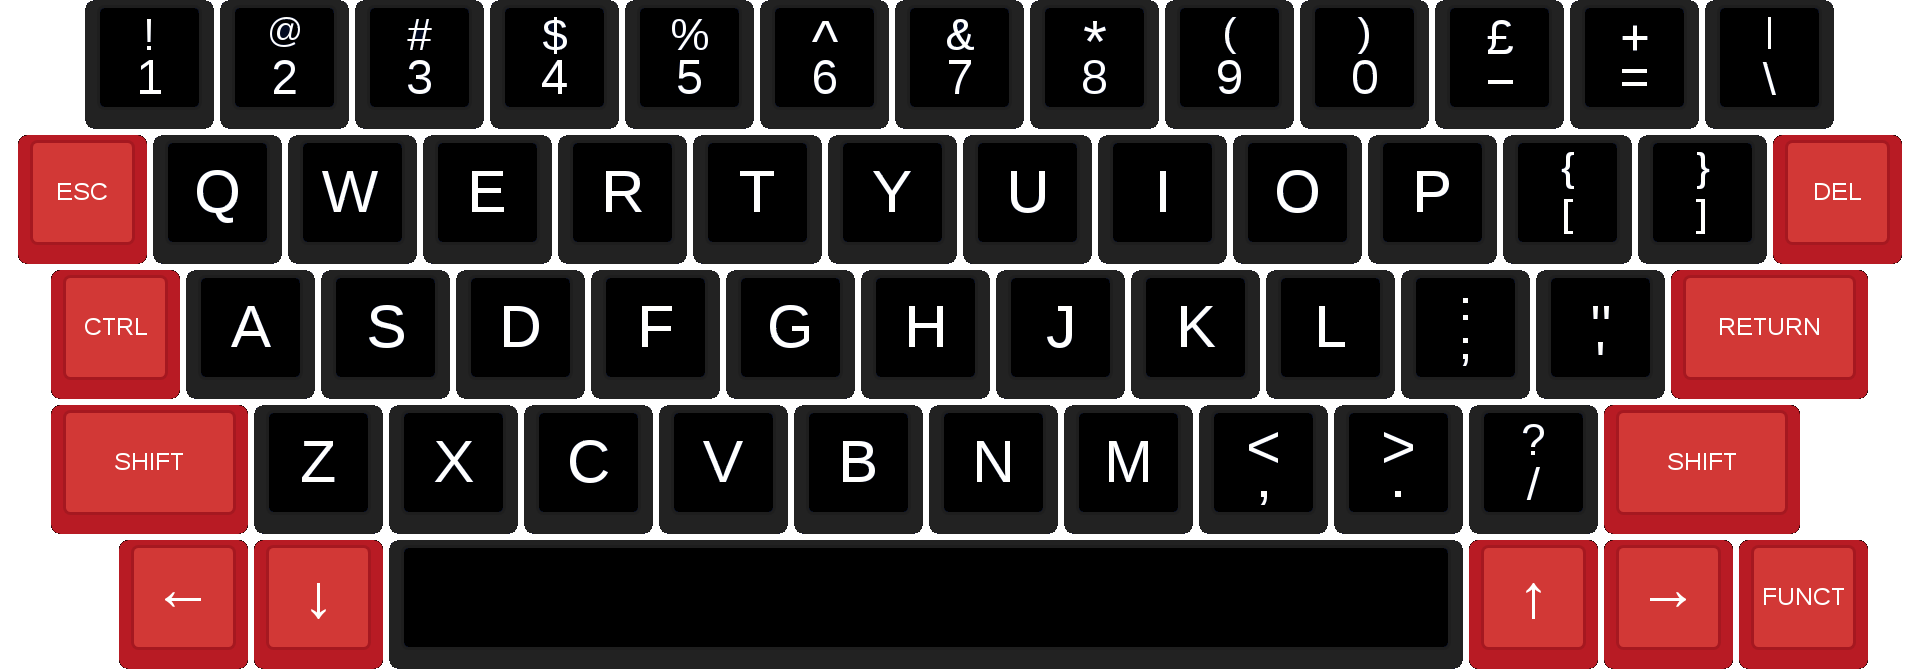
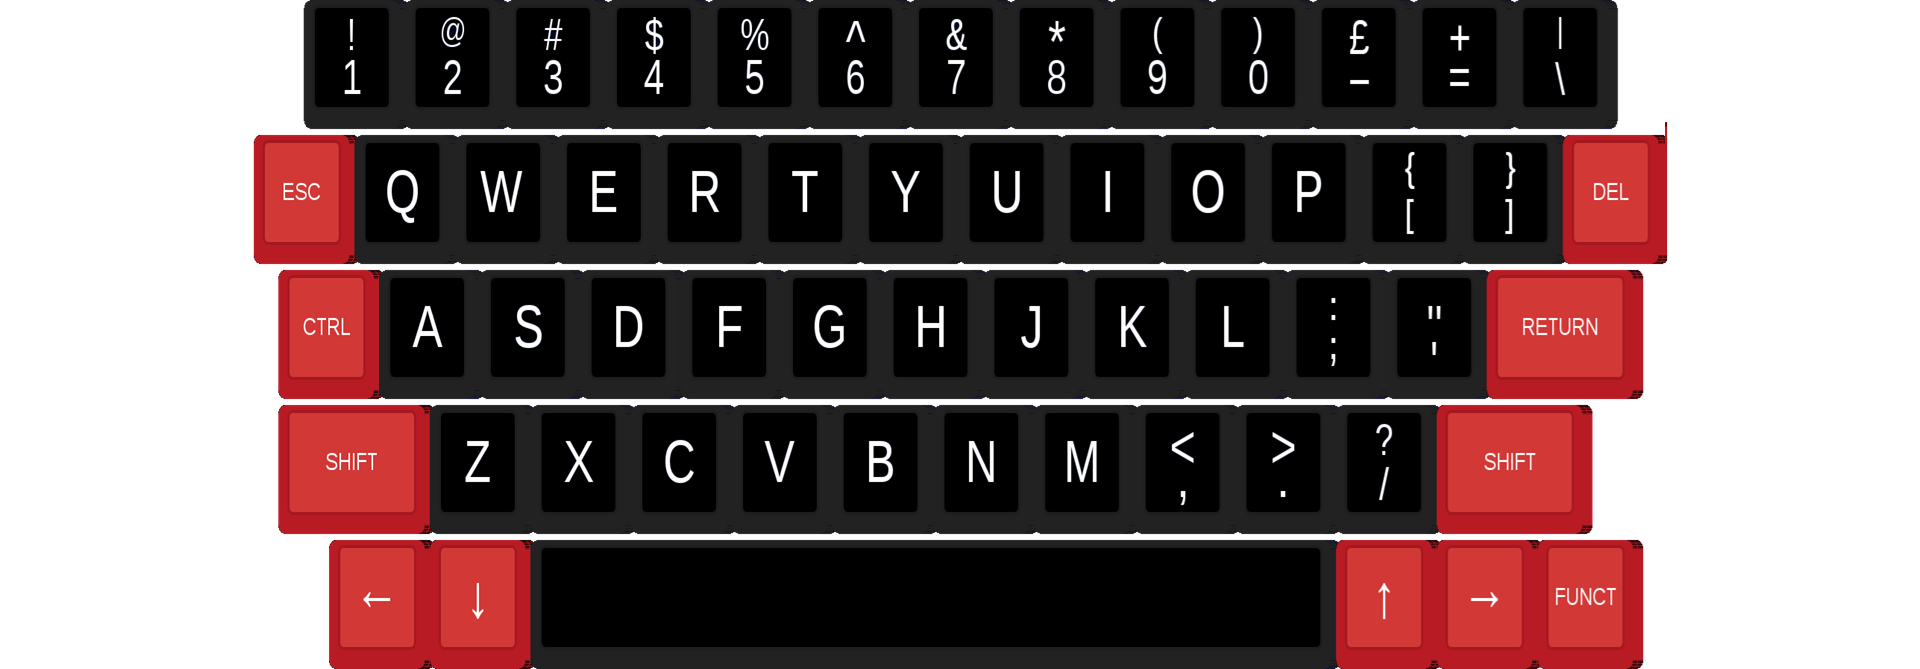
Updated landscape keyboard image.

diff --git a/core/src/main/java/emu/joric/KeyboardType.java b/core/src/main/java/emu/joric/KeyboardType.java
@@ -22,9 +22,9 @@ public enum KeyboardType {
             },
             "png/keyboard_landscape.png",
             0.4f,
-            0,
-            15,
-            1890,
+            110,
+            253,
+            1414,
             0
           ),
     PORTRAIT(
